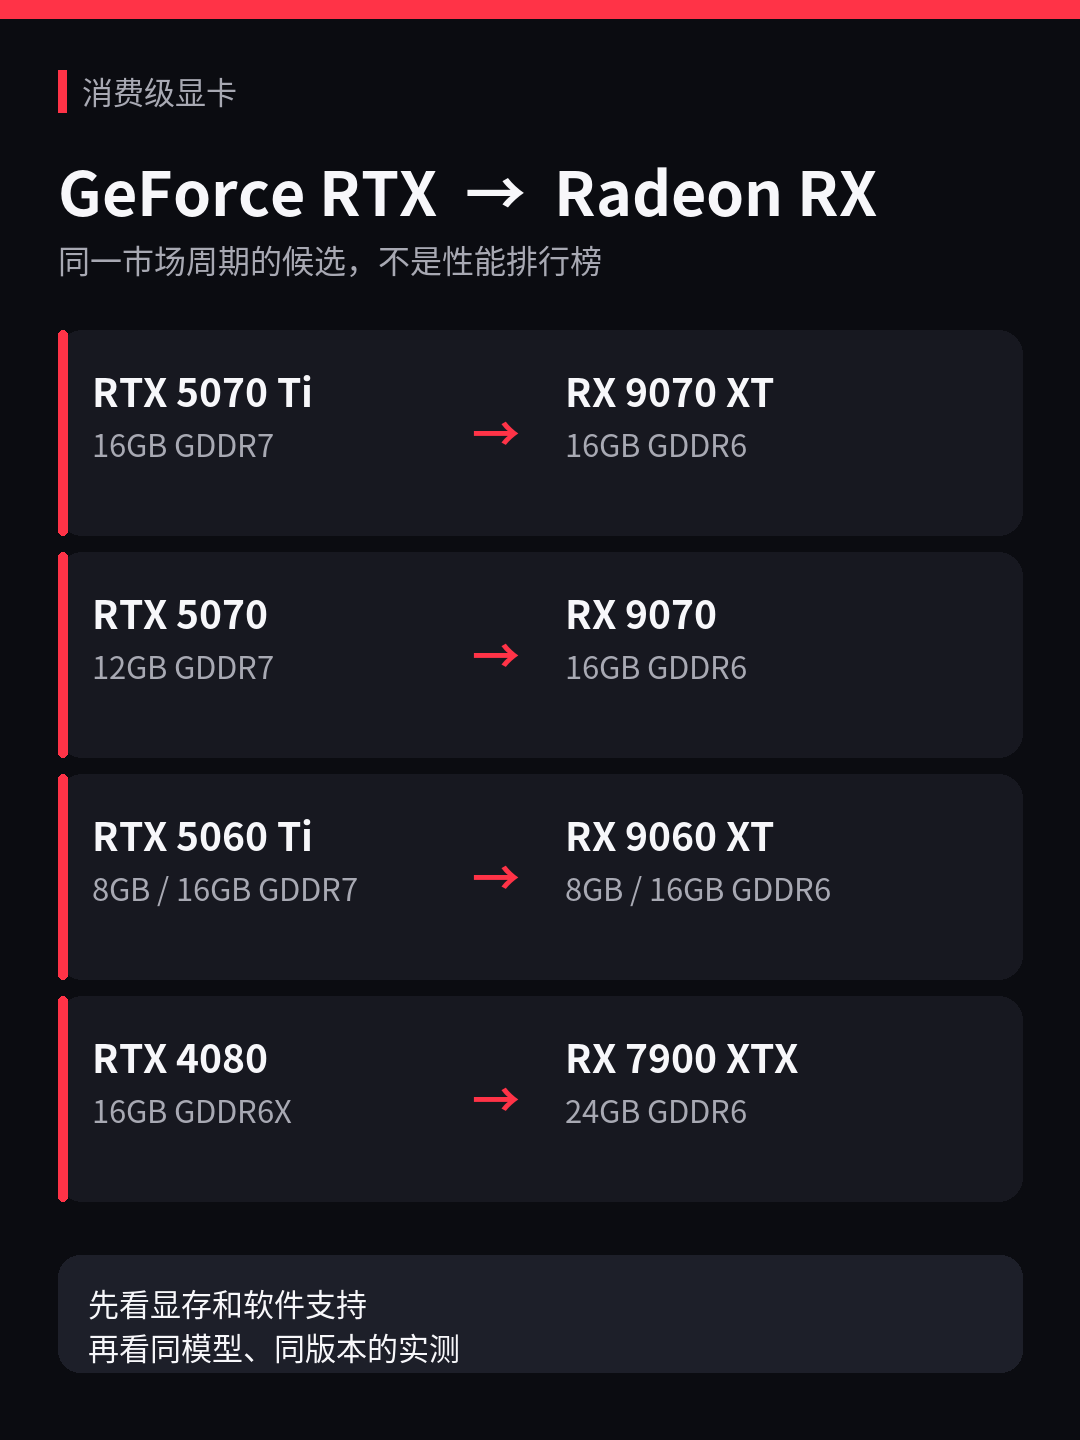
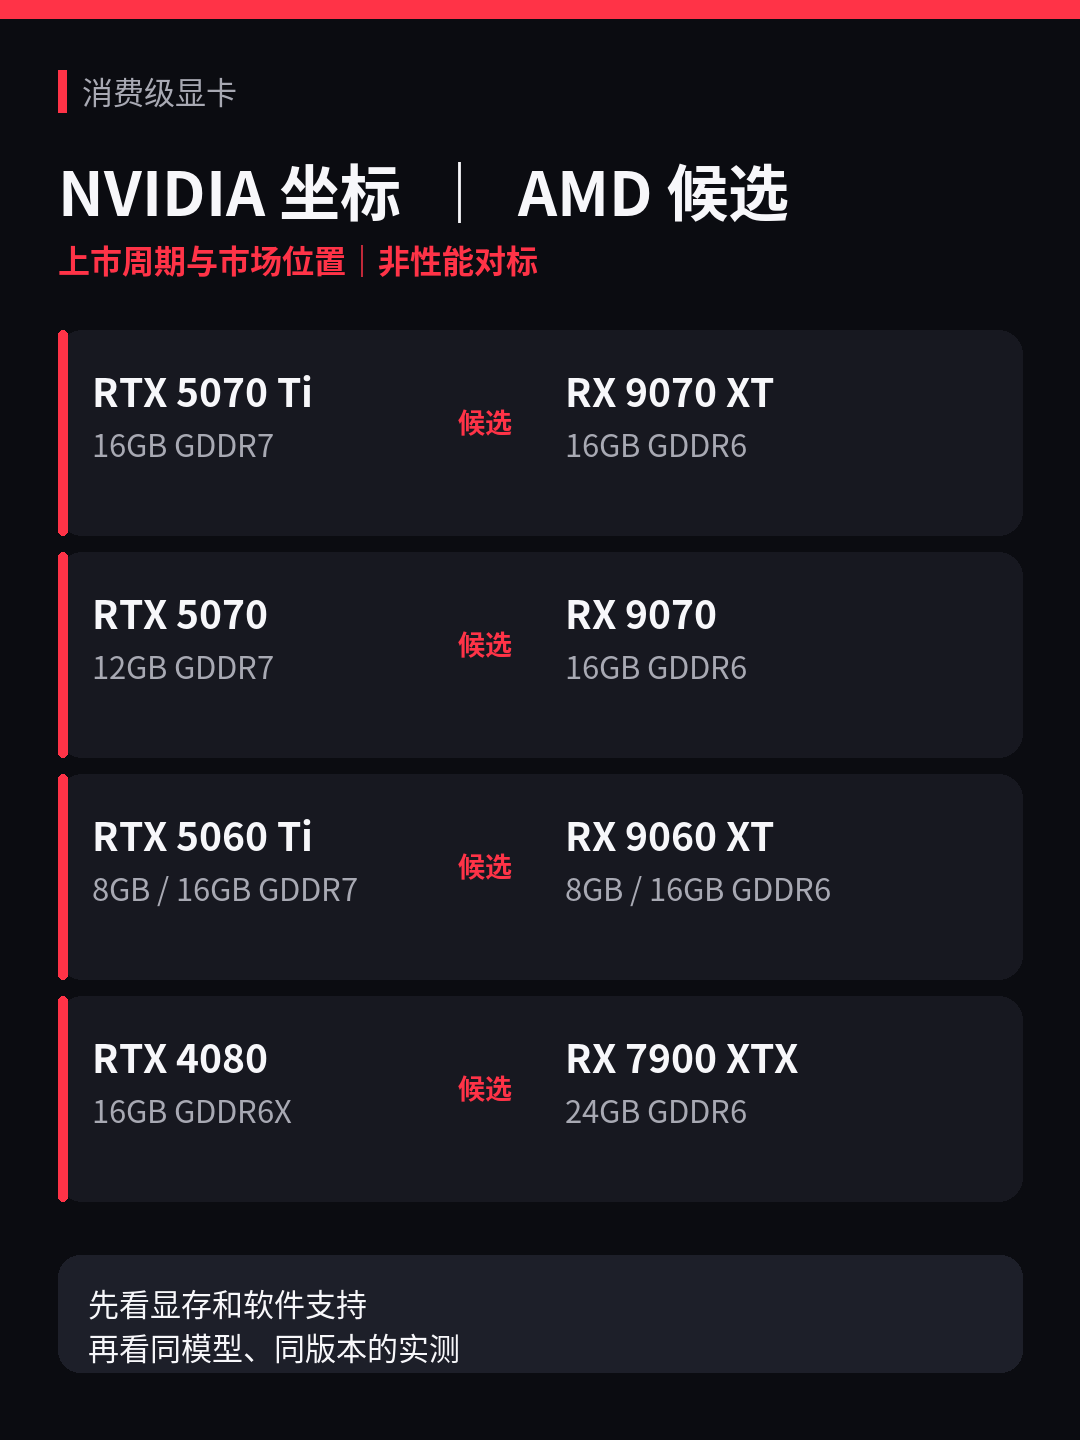
恢复第八篇大纲内容并明确非性能对标

diff --git a/zhihu/08-amd-nvidia-product-mapping/README.md b/zhihu/08-amd-nvidia-product-mapping/README.md
@@ -1,50 +1,79 @@
-# AI 教程常写 NVIDIA，AMD 用户该怎么看？一文理清 A/N 卡档位
+# AI 教程常写 NVIDIA，换成 AMD 该看哪张？A/N 卡产品线与候选型号
 
-打开一篇本地大模型或 AI 绘图教程，硬件建议经常是这样写的：5070 Ti 够用，4090 更稳，训练则要上 H100。
+打开一篇本地大模型、AI 绘图或训练教程，硬件建议经常是这样写的：5070 Ti 够用，4090 更稳，训练则要上 H100。
 
-这些 NVIDIA 型号已经成了 AI 硬件的常用坐标。但如果你手里是 A 卡，问题马上就来了：RX 9070 XT 算哪一档？W7900 能不能参考 RTX 6000 Ada 的使用场景？Instinct MI 系列又该怎么对应？
+这些 NVIDIA 型号已经成了 AI 硬件的常用坐标。但如果你手里是 A 卡，问题马上就来了：RX 9070 XT 应该去参考哪类产品？W7900 能不能参考 RTX 6000 Ada 的使用场景？Instinct MI 系列又该怎么理解？
 
-这篇文章先解决“去 AMD 这边看谁”的问题。这里的箭头只表示候选产品位置，不是性能排行榜，更不是把 CUDA 教程里的显卡名替换掉就能直接运行。
+这篇文章先回答“去 AMD 这边看谁”。它是一份产品导航，不是性能对标：消费级按上市周期和市场位置找候选，工作站看专业产品与显存容量，数据中心采用 AMD 官方竞争参照，统一内存设备只比较它们解决的容量问题。真正的速度还要回到具体工作负载。
 
 ![AMD 与 NVIDIA 四类产品线总览](images/01-product-lines.png)
 
 ## 教程写 5070 Ti，A 卡先看哪张
 
+消费级显卡最容易建立坐标，也最容易被误读成性能排名。下面四组只表示市场位置候选。
+
+| NVIDIA 坐标 | NVIDIA 显存 | AMD 候选 | AMD 显存 | 为什么放在一组 |
+|---|---:|---|---:|---|
+| GeForce RTX 5070 Ti | 16GB GDDR7 | Radeon RX 9070 XT | 16GB GDDR6 | 同属 2025 高端消费级产品，容量相同 |
+| GeForce RTX 5070 | 12GB GDDR7 | Radeon RX 9070 | 16GB GDDR6 | 同一周上市，美国官方起始价格同为 549 美元 |
+| GeForce RTX 5060 Ti | 8GB / 16GB GDDR7 | Radeon RX 9060 XT | 8GB / 16GB GDDR6 | 同属 2025 主流产品家族，均有两种容量 |
+| GeForce RTX 4080 | 16GB GDDR6X | Radeon RX 7900 XTX | 24GB GDDR6 | 同属 2022 高端 4K 产品周期，但各自产品栈级别并非严格相同 |
+
 ![GeForce RTX 与 Radeon RX 候选位置](images/02-consumer-map.png)
 
-这些配对中，RX 9070 和 RTX 5070 的位置最接近：两者在同一周上市，美国官方起始价格也都是 549 美元，但前者是 16GB，后者是 12GB。RX 9060 XT 和 RTX 5060 Ti 则都有 8GB、16GB 两种版本，看到型号时还得继续确认容量。
+RX 9070 和 RTX 5070 是这里上市时间与美国官方起始价格最接近的一组，但显存已经不同：前者是 16GB，后者是 12GB。RX 9060 XT 和 RTX 5060 Ti 则都分 8GB、16GB 两个版本，购买或阅读教程时不能只看型号。
 
-对本地 AI 来说，模型权重、KV Cache 和运行时空间通常都要占显存，容量往往比型号尾缀更直接。同为上一代高端卡，RX 7900 XTX 的 24GB 与 RTX 4080 的 16GB，会给出不同的模型容量余量；但显存更大不自动代表生成更快。
+对本地大模型来说，模型权重、KV Cache 和运行时空间通常都要占显存。图像、视频生成还要给中间张量和分辨率、batch 带来的额外占用留空间。因此 RX 7900 XTX 的 24GB 与 RTX 4080 的 16GB 会给出不同的容量余量，但显存更大不自动代表生成更快。
+
+找到候选卡之后，还要检查教程真正依赖什么。如果脚本调用 CUDA 专用库或算子，不能只替换显卡名；需要确认目标应用及所需算子，在当前操作系统、GPU 和软件版本上是否有 ROCm、Vulkan 或其他可用实现。
 
 ## 32GB 和 48GB，再看工作站卡
 
 如果教程已经写到 RTX PRO，AMD 侧应优先看 Radeon PRO / AI PRO，而不是只在 Radeon RX 游戏卡里找。
 
+| NVIDIA 坐标 | 显存 | AMD 候选 | 显存 | 产品关系 |
+|---|---:|---|---:|---|
+| RTX PRO 4500 Blackwell Workstation Edition | 32GB GDDR7 ECC | Radeon AI PRO R9700 | 32GB GDDR6 | 同属 2025 专业工作站周期，本地 AI 与专业创作用途有交集 |
+| RTX 6000 Ada Generation | 48GB GDDR6 ECC | Radeon PRO W7900 | 48GB GDDR6 ECC | 同时代旗舰工作站产品，容量和目标用途接近，不按价格配对 |
+
 ![RTX PRO 与 Radeon PRO 候选位置](images/03-workstation-map.png)
 
-R9700 与 RTX PRO 4500 Blackwell 都是 2025 年的 32GB 专业卡，本地 AI 和专业创作用途有交集。W7900 与 RTX 6000 Ada 则是上一周期的 48GB 旗舰工作站卡。对本地大模型读者，这里的第一层价值是更大的单卡显存空间，不是“专业卡一定更快”。
+这两张 AMD 卡不是只存在于规格表里。我们在一台 4×R9700 宿主上锁定单卡，用 ROCm 7.2.0、PyTorch 2.9.1 和 Transformers 5.14.1 跑通了 Qwen2.5-0.5B-Instruct；另一组独立实验则用单卡 llama.cpp ROCm / HIP 跑过 Qwen3.6-35B-A3B Q4_K_M。W7900 这边，我们用 llama.cpp Vulkan 跑通 Qwen3.8 27B Q4_K_M，开启 MTP 后约占 19.2 GiB，65 / 65 个模型层全部放进 GPU。
+
+这些观察说明的是容量怎样落到实际任务，不是 R9700 或 W7900 与 NVIDIA 候选的速度关系。32B Q4 权重常见约 20GB，放进 32GB 卡后还能给 KV Cache 和 workspace 留空间；70B Q4 权重常见约 40—45GB，进入 48GB 单卡后余量已经很紧，实际占用仍会随上下文、精度和框架变化。
+
+R9700 还明确面向本地开发、模型微调和多 GPU 工作站。但多张 32GB 卡不会自动变成一个对程序透明的 64GB 显存池。普通数据并行通常在每张卡复制完整模型，主要扩大吞吐或全局 batch；如果要让单卡放不下的模型或训练状态跨卡，需要张量并行、流水线并行、FSDP / ZeRO 等分片方式。互联带宽、通信库和并行策略也会进入选型。
 
 ## A100、H100、B200，对面是 Instinct 哪一代
 
-下面四组不是按价格排列，而是 AMD 官方产品材料实际采用的 NVIDIA 竞争参照。
+数据中心部分不是按价格排列。下面四组是 AMD 官方产品材料实际采用的 NVIDIA 竞争参照。
+
+| NVIDIA 竞争参照 | 代表容量 | AMD Instinct | 容量 | 关系 |
+|---|---:|---|---:|---|
+| A100 80GB SXM | 80GB HBM2e | MI250X | 2×64GB HBM2e | AMD 发布材料的直接比较对象 |
+| H100 SXM | 80GB HBM3 | MI300X | 192GB HBM3 | AMD 官方比较过 OAM / HGX 配置 |
+| H200 SXM | 141GB HBM3e | MI325X | 256GB HBM3E | 两者都是原架构上的高容量刷新产品 |
+| B200 SXM / HGX B200 | 180GB HBM3e / GPU | MI355X | 288GB HBM3E | AMD 官方采用的单 GPU 与 8-GPU 平台竞争参照 |
 
 ![AMD Instinct 与 NVIDIA 数据中心 GPU 竞争参照](images/04-datacenter-map.png)
 
-这组对照按单个 GPU 或 OAM 展示。MI250X 的 128GB 来自两个被 ROCm 独立枚举的 64GB GCD，并不是单个 ROCm 设备的 128GB 本地显存池。真正做集群选型时，还要继续看模型、精度、互联、框架和整机配置。
+这一部分面向数据中心训练、推理服务和多卡集群。容量决定模型和运行状态能不能放下，计算精度支持会影响 FP8、FP4 等训练或推理路径，内存带宽影响数据在 GPU 内移动的上限，GPU 间互联影响多卡扩展，软件框架、通信库和优化 kernel 则决定峰值规格能不能在真实任务中兑现。
+
+图中按单个 GPU 或 OAM 展示。MI250X 的 128GB 来自两个被 ROCm 独立枚举的 64GB GCD，并不是单个 ROCm 设备的 128GB 本地显存池。四组产品在部分特定 benchmark 中可能接近，也可能差距很大；这张图只负责说明官方竞争关系，不负责给出跨模型、精度和软件的性能结论。
 
 ## 都写 128GB，Ryzen AI Max 和 DGX Spark 一样吗
 
-多数个人读者不会直接部署 Instinct 或 H100。如果真正的问题是模型装不进普通独显，另一条路线是把大容量统一内存放进紧凑设备。
+如果真正的问题是模型装不进普通独显，另一条路线是把大容量统一内存放进紧凑设备。
 
 ![两种 128GB 统一内存本地 AI 平台](images/05-unified-memory.png)
 
-Ryzen AI Max+ 395 采用 Zen 5 CPU 和 Radeon 8060S，受支持配置可以使用 ROCm，AMD 官方也提供过 Windows + Vulkan 路径。128GB 是系统内存总量，标准 Windows VGM 最多可划出 96GB 作为专用图形内存。
+Ryzen AI Max+ 395 采用 Zen 5 CPU 和 Radeon 8060S，受支持配置可以使用 ROCm，AMD 官方也提供过 Windows + Vulkan 路径。128GB 是系统内存总量，不是 Radeon 8060S 的独占显存；标准 Windows VGM 最多可划出 96GB 作为专用图形内存。
 
-DGX Spark 使用 Arm + Blackwell 的 GB10，官方规格是 128GB LPDDR5x coherent unified system memory，并预装 NVIDIA AI 软件栈。两边相同的是“大内存本地 AI”这条思路，不是性能和软件体验。
+DGX Spark 使用 Arm + Blackwell 的 GB10，官方规格是 128GB LPDDR5x coherent unified system memory，并预装 NVIDIA AI 软件栈。两边都在用大容量共享内存扩大本地模型的可装载范围，但可装下相近规模的模型，不代表首 token、生成速度、批量推理、微调或图像生成性能相同。
 
-## 找到对应型号后，先别急着下结论
+## 找到候选型号后，怎样判断能不能用
 
-假设一篇教程写“需要 24GB NVIDIA 显卡”，先别问哪张 AMD 卡等于 4090。先看这 24GB 是为了装下模型，还是教程依赖某个 CUDA 算子。
+假设一篇教程写“需要 24GB NVIDIA 显卡”，先不要急着从表里挑一张 AMD 候选。先看这 24GB 是为了装下模型，还是教程依赖某个 CUDA 算子。
 
 我的建议是按这个顺序判断：
 
@@ -52,15 +81,15 @@ DGX Spark 使用 Arm + Blackwell 的 GB10，官方规格是 128GB LPDDR5x cohere
 2. **再看软件**：目标应用及所需算子，在你的操作系统、GPU 和软件版本上是否有 ROCm、Vulkan 或其他可用实现；
 3. **最后看实测和价格**：只比较同模型、同精度、同软件版本和相近配置下的结果。
 
-型号对照负责把搜索范围从十几张卡缩到一两张，最终选择仍由你的任务决定。
+产品导航负责把搜索范围从十几张卡缩到一两张候选，性能结论仍要由你的真实任务给出。
 
 ## 参考资料
 
 - 消费级：[AMD Radeon RX 9000 Series 发布资料](https://www.amd.com/en/newsroom/press-releases/2025-2-28-amd-unveils-next-generation-amd-rdna-4-architectu.html)、[NVIDIA RTX 50 Series 发布资料](https://nvidianews.nvidia.com/news/nvidia-blackwell-geforce-rtx-50-series-opens-new-world-of-ai-computer-graphics)、[RTX 5070 上市资料](https://www.nvidia.com/en-us/geforce/news/rtx-5070-out-now/)、[RTX 5070 Family 规格](https://www.nvidia.com/en-us/geforce/graphics-cards/50-series/rtx-5070-family/)、[RX 9060 XT 发布资料](https://www.amd.com/en/newsroom/press-releases/2025-5-20-amd-introduces-new-radeon-graphics-cards-and-ryzen.html)、[RTX 5060 Ti 发布资料](https://nvidianews.nvidia.com/news/nvidia-blackwell-geforce-rtx-arrives-for-every-gamer-starting-at-299)、[RX 7900 XTX 规格](https://www.amd.com/en/products/graphics/desktops/radeon/7000-series/amd-radeon-rx-7900xtx.html)、[RTX 4080 规格](https://www.nvidia.com/en-us/geforce/graphics-cards/40-series/rtx-4080-family/)
-- 工作站：[AMD Radeon AI PRO R9700](https://www.amd.com/en/products/graphics/workstations/radeon-ai-pro/ai-9000-series/amd-radeon-ai-pro-r9700.html)、[NVIDIA RTX PRO 4500 Blackwell Workstation Edition](https://www.nvidia.com/en-us/products/workstations/professional-desktop-gpus/rtx-pro-4500/)、[AMD Radeon PRO W7900](https://www.amd.com/en/products/graphics/workstations/radeon-pro/w7900.html)、[NVIDIA RTX 6000 Ada Generation](https://www.nvidia.com/en-us/design-visualization/rtx-6000/)
+- 工作站：[AMD Radeon AI PRO R9700](https://www.amd.com/en/products/graphics/workstations/radeon-ai-pro/ai-9000-series/amd-radeon-ai-pro-r9700.html)、[NVIDIA RTX PRO 4500 Blackwell Workstation Edition](https://www.nvidia.com/en-us/products/workstations/professional-desktop-gpus/rtx-pro-4500/)、[AMD Radeon PRO W7900](https://www.amd.com/en/products/graphics/workstations/radeon-pro/w7900.html)、[NVIDIA RTX 6000 Ada Generation](https://www.nvidia.com/en-us/design-visualization/rtx-6000/)、[本项目 R9700 PyTorch / Transformers 实测](https://github.com/AMD-AIM/zhihu_rednote_articles/tree/main/zhihu/01-huggingface-on-amd)、[本项目 R9700 llama.cpp 记录](https://github.com/AMD-AIM/zhihu_rednote_articles/tree/main/zhihu/03-amd-workload-rocm-stack)、[本项目 W7900 实测](https://github.com/AMD-AIM/zhihu_rednote_articles/tree/main/zhihu/07-qwen3.8-27b-llamacpp)、[多卡并行策略](https://docs.nvidia.com/nemo-framework/user-guide/24.12/nemotoolkit/features/parallelisms.html)
 - 数据中心：[AMD MI200](https://www.amd.com/en/products/accelerators/instinct/mi200.html)、[NVIDIA A100](https://www.nvidia.com/en-us/data-center/a100/)、[AMD MI300X](https://www.amd.com/en/products/accelerators/instinct/mi300/mi300x.html)、[NVIDIA H100](https://www.nvidia.com/en-us/data-center/h100/)、[AMD MI325X](https://www.amd.com/en/products/accelerators/instinct/mi300/mi325x.html)、[NVIDIA H200](https://www.nvidia.com/en-us/data-center/h200/)、[AMD MI355X](https://www.amd.com/en/products/accelerators/instinct/mi350/mi355x.html)、[NVIDIA Blackwell](https://www.nvidia.com/en-us/data-center/technologies/blackwell-architecture/)
 - 统一内存：[AMD Ryzen AI Max+ 395](https://www.amd.com/en/products/processors/laptop/ryzen/ai-300-series/amd-ryzen-ai-max-plus-395.html)、[AMD Variable Graphics Memory FAQ](https://www.amd.com/en/blogs/2025/faqs-amd-variable-graphics-memory-vram-ai-model-sizes-quantization-mcp-more.html)、[AMD Qwen3.8 Windows + Vulkan 路径](https://www.amd.com/en/blogs/2026/run-qwen-3-8-27b-on-amd-ryzen-ai-max-and-radeon-graphics-cards-day-0.html)、[NVIDIA DGX Spark](https://www.nvidia.com/en-us/products/workstations/dgx-spark/)
 
 #AMD #NVIDIA #显卡 #ROCm #CUDA #本地大模型 #人工智能
 
-你平时看到最多的是哪张 NVIDIA 卡？自己手里又是哪张 AMD 卡，准备跑什么模型或应用？欢迎把型号和任务留在评论区。
+你平时在教程里看到最多的是哪张 NVIDIA 卡？自己手里又是哪张 AMD 卡，准备跑什么模型或应用？欢迎把型号和任务留在评论区。
